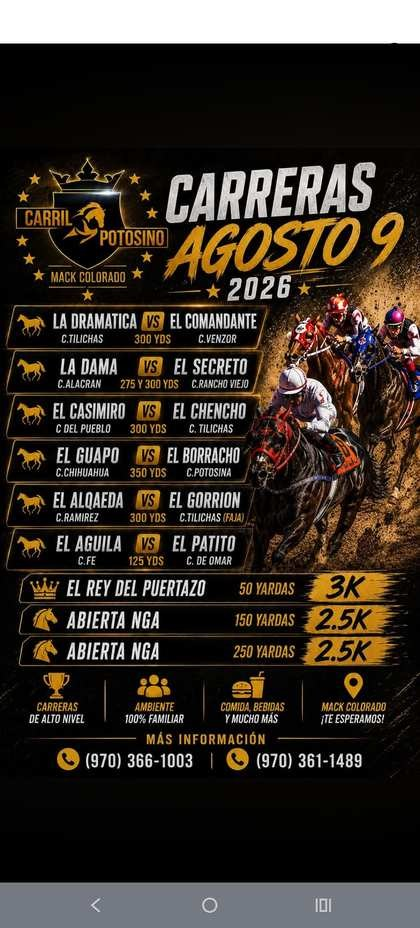
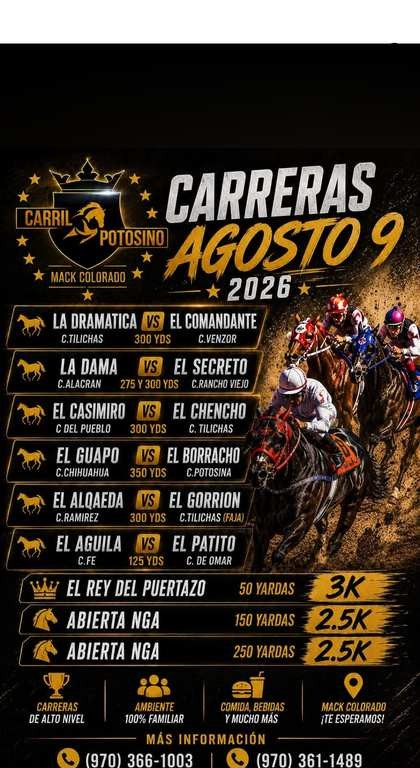
Add Carril Potosino abiertas promo + static flyer, QR on every page
New abiertas.html promotes the Carreras Abiertas (El Rey del Puertazo
$3K, two NGA $2.5K) in the duel-style dramatic layout, themed gold to
match the app. New static flyer.html shows the real flyer poster.
Both embed a self-contained QR (base64) to the picks app, and the
video ad now carries a persistent QR badge. Also trimmed the phone
chrome off the flyer poster image.

diff --git a/events/carril-potosino-ago9/abiertas.html b/events/carril-potosino-ago9/abiertas.html
@@ -1,0 +1,101 @@
+<!DOCTYPE html>
+<html lang="es">
+<head>
+<meta charset="UTF-8">
+<meta name="viewport" content="width=device-width,initial-scale=1,maximum-scale=1">
+<title>Carreras Abiertas · $8,000 en Bolsa — Carril Potosino</title>
+<link href="https://fonts.googleapis.com/css2?family=Bebas+Neue&family=Oswald:wght@600;700;900&display=swap" rel="stylesheet">
+<style>
+*{margin:0;padding:0;box-sizing:border-box}
+:root{--gold:#C8901A;--gold-hi:#E8B84B;--ink:#0d0a04}
+body{background:var(--ink);color:#fff;font-family:'Oswald',sans-serif;min-height:100vh;display:flex;justify-content:center}
+.wrap{width:100%;max-width:500px;background:var(--ink);min-height:100vh;overflow:hidden}
+.header{display:flex;justify-content:space-between;align-items:center;padding:12px 20px;border-bottom:1px solid rgba(200,144,26,.25)}
+.header div{font-family:'Bebas Neue',sans-serif;font-size:13px;color:var(--gold-hi);letter-spacing:2px}
+.event-label{text-align:center;padding:22px 16px 4px}
+.title{font-family:'Bebas Neue',sans-serif;font-size:56px;color:var(--gold-hi);line-height:.92;animation:glow 2.6s ease-in-out infinite}
+.subtitle{font-size:12px;color:#fff;opacity:.7;letter-spacing:3px;margin-top:8px;font-weight:700}
+.badges{display:flex;justify-content:center;gap:8px;padding:14px 16px;flex-wrap:wrap}
+.badge{border:1px solid var(--gold);color:var(--gold-hi);font-family:'Bebas Neue',sans-serif;font-size:12px;letter-spacing:1px;padding:5px 13px;border-radius:50px}
+.badge.solid{background:var(--gold);color:#160f03;border-color:var(--gold)}
+.hero{position:relative;height:210px;overflow:hidden}
+.hero img{width:100%;height:100%;object-fit:cover;object-position:center 38%;animation:kb 9s ease-in-out infinite alternate}
+.hero .shade{position:absolute;inset:0;background:linear-gradient(to bottom,rgba(13,10,4,.15) 30%,var(--ink))}
+.hero .tag{position:absolute;left:0;right:0;bottom:10px;text-align:center;font-family:'Bebas Neue',sans-serif;font-size:20px;letter-spacing:2px;color:#fff;text-shadow:0 2px 12px #000}
+.races{padding:8px 16px 4px}
+.race{display:flex;align-items:center;gap:12px;background:rgba(200,144,26,.08);border:1px solid rgba(200,144,26,.3);border-radius:14px;padding:14px 16px;margin-bottom:10px}
+.race.head{background:linear-gradient(135deg,rgba(200,144,26,.22),rgba(200,144,26,.06));border-color:var(--gold)}
+.race .info{flex:1}
+.race .rname{font-family:'Bebas Neue',sans-serif;font-size:22px;letter-spacing:1px;color:#fff;line-height:1}
+.race.head .rname{color:var(--gold-hi);font-size:26px}
+.race .rdist{font-size:11px;letter-spacing:2px;color:rgba(255,255,255,.55);margin-top:3px;text-transform:uppercase}
+.race .purse{font-family:'Bebas Neue',sans-serif;font-size:30px;color:var(--gold-hi);letter-spacing:1px;flex-shrink:0}
+.race.head .purse{font-size:40px}
+.crown{font-size:20px;flex-shrink:0}
+.countdown-box{background:rgba(200,144,26,.12);border:1px solid rgba(200,144,26,.3);border-radius:12px;padding:15px 20px;margin:14px 16px}
+.cd-label{font-size:11px;letter-spacing:3px;color:var(--gold-hi);text-align:center;margin-bottom:8px}
+.cd-display{font-family:'Bebas Neue',sans-serif;font-size:46px;color:#fff;text-align:center;letter-spacing:4px;line-height:1}
+.cta{display:block;margin:14px 16px 4px;background:var(--gold);color:#160f03;text-align:center;text-decoration:none;font-family:'Bebas Neue',sans-serif;font-size:22px;letter-spacing:2px;padding:16px;border-radius:12px;box-shadow:0 10px 26px rgba(200,144,26,.35)}
+.qr-section{text-align:center;padding:22px 16px 8px;border-top:1px solid rgba(255,255,255,.06);margin-top:14px}
+.qr-title{font-family:'Bebas Neue',sans-serif;font-size:18px;color:#fff;letter-spacing:3px;margin-bottom:12px}
+.qr-img-wrap{width:150px;height:150px;background:#F6F1E7;border-radius:12px;padding:8px;border:2px solid rgba(200,144,26,.5);display:inline-flex;margin:0 auto}
+.qr-img-wrap img{width:100%;height:100%}
+.qr-sub{font-size:11px;color:rgba(255,255,255,.4);margin-top:10px;letter-spacing:1px}
+.fire-row{text-align:center;padding:16px;font-size:22px}
+@keyframes glow{0%,100%{text-shadow:0 0 18px rgba(200,144,26,.4),0 0 60px rgba(200,144,26,.15)}50%{text-shadow:0 0 40px rgba(232,184,75,.9),0 0 100px rgba(200,144,26,.5)}}
+@keyframes kb{0%{transform:scale(1.05)}100%{transform:scale(1.16)}}
+</style>
+</head>
+<body>
+<div class="wrap">
+  <div class="header"><div>CARRIL POTOSINO</div><div>AGOSTO 9 · 2026</div></div>
+  <div class="event-label">
+    <div class="title">CARRERAS<br>ABIERTAS</div>
+    <div class="subtitle">MACK COLORADO · DOMINGO 9 DE AGOSTO</div>
+  </div>
+  <div class="badges">
+    <div class="badge solid">BOLSA $8,000</div>
+    <div class="badge">6 MANO A MANO</div>
+    <div class="badge">3 ABIERTAS</div>
+  </div>
+  <div class="hero">
+    <img src="images/img09.jpg" alt="Carreras Potosino">
+    <div class="shade"></div>
+    <div class="tag">🐎 CARRERAS DE ALTO NIVEL 🐎</div>
+  </div>
+  <div class="races">
+    <div class="race head">
+      <div class="crown">👑</div>
+      <div class="info"><div class="rname">EL REY DEL PUERTAZO</div><div class="rdist">50 Yardas · Abierta Estelar</div></div>
+      <div class="purse">$3K</div>
+    </div>
+    <div class="race">
+      <div class="info"><div class="rname">ABIERTA NGA</div><div class="rdist">150 Yardas</div></div>
+      <div class="purse">$2.5K</div>
+    </div>
+    <div class="race">
+      <div class="info"><div class="rname">ABIERTA NGA</div><div class="rdist">250 Yardas</div></div>
+      <div class="purse">$2.5K</div>
+    </div>
+  </div>
+  <div class="countdown-box">
+    <div class="cd-label">ARRANCA EN:</div>
+    <div class="cd-display" id="cd">00:00:00</div>
+  </div>
+  <a class="cta" href="site.html">VER PROGRAMA Y HACER PICKS →</a>
+  <div class="qr-section">
+    <div class="qr-title">ESCANEA PARA TUS PICKS</div>
[1 lines of base64/hex data omitted]
+    <div class="qr-sub">9 carreras · picks gratis · guttix1.github.io</div>
+  </div>
+  <div class="fire-row">🔥 🐎 🏆 🐎 🔥</div>
+</div>
+<script>
+function cd(){var t=new Date('2026-08-09T12:00:00').getTime(),n=Date.now(),d=t-n,e=document.getElementById('cd');
+if(d<=0){e.textContent='¡EN CURSO!';return;}
+var days=Math.floor(d/864e5),h=Math.floor(d%864e5/36e5),m=Math.floor(d%36e5/6e4),s=Math.floor(d%6e4/1e3);
+e.textContent=(days>0?days+'D ':'')+String(h).padStart(2,'0')+':'+String(m).padStart(2,'0')+':'+String(s).padStart(2,'0');}
+cd();setInterval(cd,1000);
+</script>
+</body>
+</html>

diff --git a/events/carril-potosino-ago9/flyer.html b/events/carril-potosino-ago9/flyer.html
@@ -1,0 +1,53 @@
+<!DOCTYPE html>
+<html lang="es">
+<head>
+<meta charset="UTF-8">
+<meta name="viewport" content="width=device-width,initial-scale=1">
+<title>Flyer · Carril Potosino — Carreras Agosto 9</title>
+<link href="https://fonts.googleapis.com/css2?family=Bebas+Neue&family=Oswald:wght@600;700;900&display=swap" rel="stylesheet">
+<style>
+*{margin:0;padding:0;box-sizing:border-box}
+:root{--gold:#C8901A;--gold-hi:#E8B84B;--ink:#0d0a04}
+body{background:var(--ink);color:#fff;font-family:'Oswald',sans-serif;min-height:100vh;display:flex;justify-content:center}
+.wrap{width:100%;max-width:500px;background:var(--ink);min-height:100vh}
+.topbar{text-align:center;padding:16px;border-bottom:1px solid rgba(200,144,26,.25)}
+.topbar .k{font-family:'Bebas Neue',sans-serif;font-size:30px;color:var(--gold-hi);letter-spacing:3px;line-height:1}
+.topbar .s{font-size:11px;letter-spacing:3px;color:rgba(255,255,255,.55);margin-top:5px;text-transform:uppercase}
+.poster{padding:14px 14px 4px}
+.poster img{width:100%;border-radius:14px;display:block;border:1px solid rgba(200,144,26,.3)}
+.qr-panel{margin:14px;background:linear-gradient(135deg,rgba(200,144,26,.16),rgba(200,144,26,.04));border:1px solid rgba(200,144,26,.35);border-radius:16px;padding:20px 16px;display:flex;align-items:center;gap:16px}
+.qr-panel .qr{width:118px;height:118px;flex-shrink:0;background:#F6F1E7;border-radius:12px;padding:7px}
+.qr-panel .qr img{width:100%;height:100%}
+.qr-panel .txt .h{font-family:'Bebas Neue',sans-serif;font-size:24px;color:var(--gold-hi);letter-spacing:2px;line-height:1}
+.qr-panel .txt .p{font-size:12px;color:rgba(255,255,255,.7);margin-top:6px;line-height:1.4}
+.cta{display:block;margin:0 14px 14px;background:var(--gold);color:#160f03;text-align:center;text-decoration:none;font-family:'Bebas Neue',sans-serif;font-size:20px;letter-spacing:2px;padding:15px;border-radius:12px}
+.info{padding:4px 18px 18px;text-align:center}
+.info .row{font-size:13px;color:rgba(255,255,255,.7);letter-spacing:1px;padding:4px 0}
+.info .row b{color:var(--gold-hi)}
+.fire-row{text-align:center;padding:6px 0 22px;font-size:20px}
+</style>
+</head>
+<body>
+<div class="wrap">
+  <div class="topbar">
+    <div class="k">CARRIL POTOSINO</div>
+    <div class="s">Carreras Agosto 9 · Mack, Colorado</div>
+  </div>
+  <div class="poster"><img src="images/img11.jpg" alt="Flyer Carril Potosino Agosto 9"></div>
+  <div class="qr-panel">
[1 lines of base64/hex data omitted]
+    <div class="txt">
+      <div class="h">ESCANEA<br>PARA TUS PICKS</div>
+      <div class="p">Elige tu caballo en las 9 carreras · gratis</div>
+    </div>
+  </div>
+  <a class="cta" href="site.html">HACER MIS PICKS →</a>
+  <div class="info">
+    <div class="row"><b>📍</b> Mack, Colorado · Domingo 9 de Agosto</div>
+    <div class="row"><b>📞</b> (970) 366-1003 &nbsp;·&nbsp; (970) 361-1489</div>
+    <div class="row">🏆 El Rey del Puertazo $3K · Abiertas NGA $2.5K</div>
+  </div>
+  <div class="fire-row">🔥 🐎 🔥</div>
+</div>
+</body>
+</html>

diff --git a/events/carril-potosino-ago9/video-ad.html b/events/carril-potosino-ago9/video-ad.html
@@ -94,6 +94,11 @@ video{position:absolute;top:50%;left:50%;transform:translate(-50%,-50%);min-widt
 .f4{animation:fl .32s 19.15s}
 .f5{animation:fl .32s 23.55s}
 @keyframes fl{0%{opacity:0}45%{opacity:.9}100%{opacity:0}}
+/* persistent QR badge */
+.qrbadge{position:absolute;right:20px;bottom:24px;z-index:60;display:flex;align-items:center;gap:10px;background:rgba(13,10,4,.82);border:1px solid rgba(200,144,26,.55);border-radius:14px;padding:9px 12px 9px 9px;backdrop-filter:blur(3px)}
+.qrbadge img{width:74px;height:74px;border-radius:8px;background:#F6F1E7;padding:4px;display:block}
+.qrbadge .lbl{font-family:'Bebas Neue',Arial,sans-serif;font-size:15px;line-height:1.05;color:#E8B84B;letter-spacing:1px;max-width:96px}
+.qrbadge .lbl span{display:block;font-size:10px;color:#fff;opacity:.7;letter-spacing:1px;margin-top:3px}
 </style>
 </head>
 <body>
@@ -160,6 +165,7 @@ video{position:absolute;top:50%;left:50%;transform:translate(-50%,-50%);min-widt
     <div class="brand2 up fit">NO SE JUEGA · SE CORRE 🐎</div>
   </div>
 
[1 lines of base64/hex data omitted]
   <div class="flash f1"></div>
   <div class="flash w f2"></div>
   <div class="flash f3"></div>

diff --git a/hub.html b/hub.html
@@ -92,6 +92,8 @@ footer em{color:#0047AB;font-style:normal}
     </div>
     <div class="ec-links">
       <a class="ec-link primary" href="events/carril-potosino-ago9/site.html">🎯 Mis Picks</a>
+      <a class="ec-link" href="events/carril-potosino-ago9/abiertas.html">🏆 Abiertas</a>
+      <a class="ec-link" href="events/carril-potosino-ago9/flyer.html">📋 Flyer</a>
       <a class="ec-link" href="events/carril-potosino-ago9/video-ad.html">▶ Video Ad</a>
     </div>
   </div>
